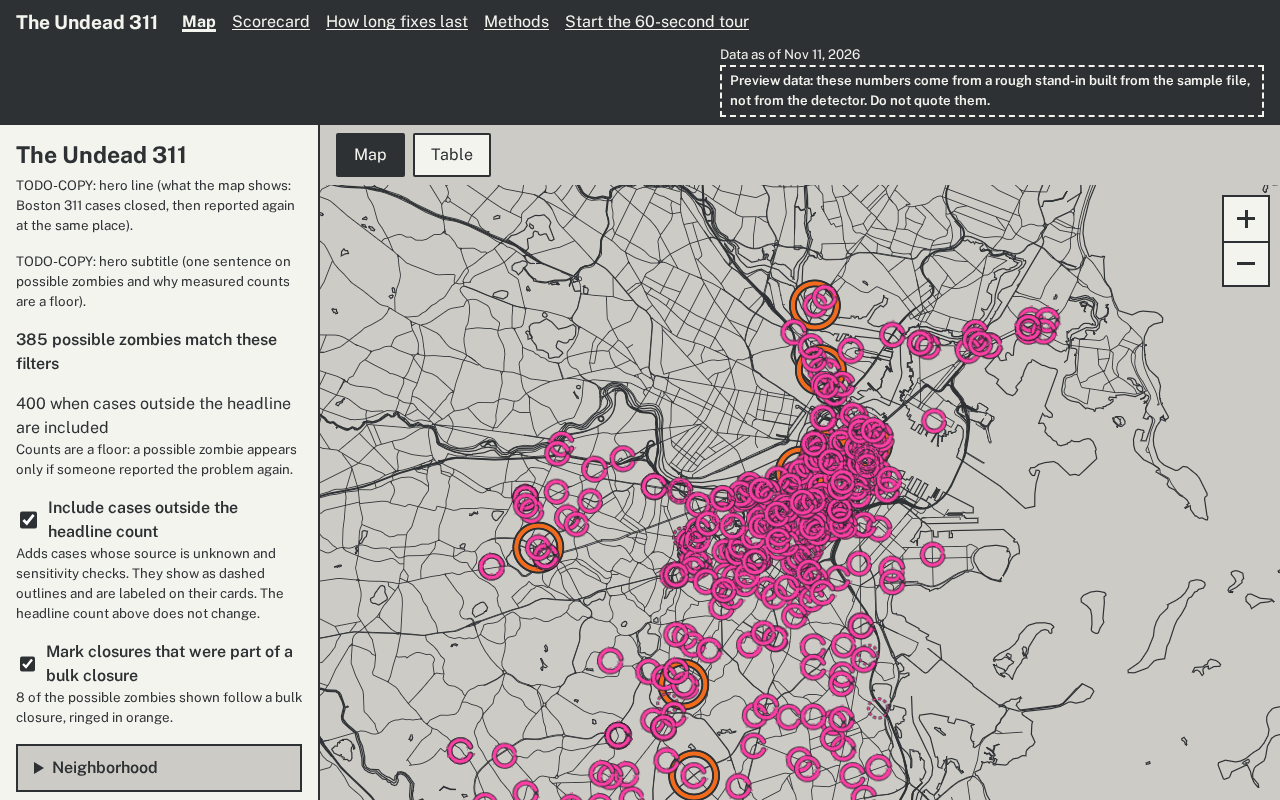
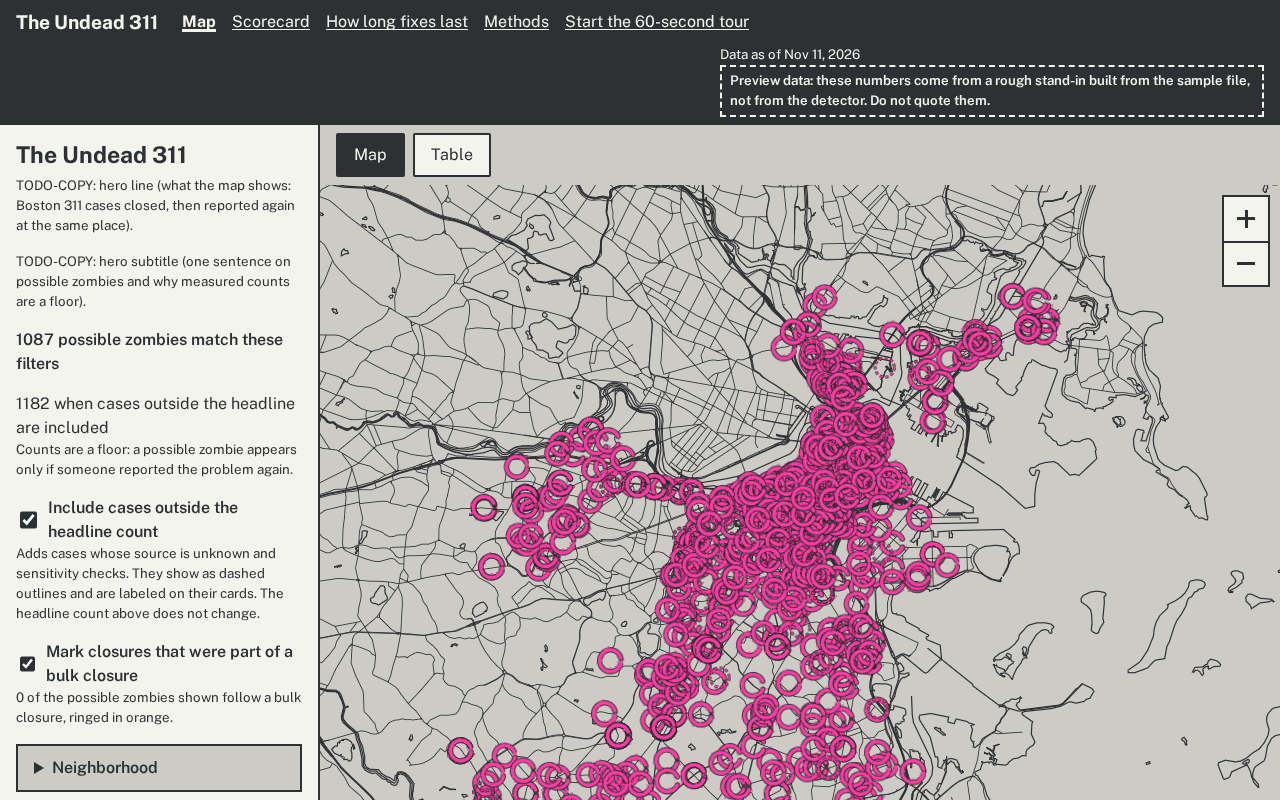
docs(log): web credibility fixes log, learning, refreshed screenshots
Kiro-Agent: web
Kiro-Run: build-1

diff --git a/docs/KIRO_LOG.md b/docs/KIRO_LOG.md
@@ -31,3 +31,4 @@ Format: `YYYY-MM-DD | surface | feature | what was built/fixed | issue + fix`
 2026-11-13 | Kiro Web | agent (web implementer) + PBT (fast-check formatGap) | Fixed reviewer-ux findings UX-1..UX-9 (ops#14-22) for haunted-web demo-critical: fixture pairs 1+ day apart with spread tour, palette-styled MapLibre controls, fixture notice, filter toggle on phones, department names, hours for sub-day gaps | The fixture builder's own comment said 1 to 60 days but the code only checked open > close, so 400/400 pairs were seconds apart; fixed and pinned by fixtures tests
 2026-11-13 | Kiro Web | agent (web implementer) + PBT | Fixed reviewer-ux findings UX-10..UX-13 (ops#23-26): tour by most re-reports then ID with override-file hook, one department key per system, Allston/Brighton grouped, phone map before hero text, preview notice inside the card | make-fixtures left stale card shards when a rule changed; the script now clears cards/ first
 2026-11-14 | Kiro Web | agent (web implementer) + PBT (fast-check W6 tier modes, W9 unusual only outside 99.8% limits) + workflow build-1 credibility | Built haunted-web tasks 12-16: CSP _headers from the build plus strict 3 MB gate, sensitivity tier toggle with outline markers, survival/funnel charts and leaderboards, methods page with status and corrections log, what-the-headline-leaves-out panels and bulk-closure map layer; fixed ops#60/#37/#38 | Kiro first left params/seed out of fixture stats files (schema had moved) and the regenerated ajv validators broke the W1 arbitrary on a date pattern; fixed make-fixtures and taught schemaArb the pattern
+2026-11-14 | Kiro Web | agent (web implementer) + PBT (niceTicks, unusualDirection) + workflow build-1 credibility loop 2 | Fixed reviewer-ux findings UX-16..UX-25 (ops#65-74): fixtures drop transferred originals, bulk flags and table agree, one neighborhood name per area, map and methods use one zombie set, funnel marks say above or below the limits (dark square, not pink), phone chart text 12 px or more (e2e check), survival legend and round ticks, styled select, Report-an-error placeholder build check | The fixture builder ignored ZD step 9 and flagged bulk by hash; both now follow the definition and fixtures tests pin it. ops#70 (is the repository public) stays needs-human

diff --git a/docs/LEARNINGS.md b/docs/LEARNINGS.md
@@ -17,3 +17,4 @@ One line each: `YYYY-MM-DD | who | learning`. Data quirks, library traps, failed
 2026-11-13 | web | The map CSS from maplibre-gl loads in a lazy chunk, so overrides need higher specificity (.map-host prefix) than its stock selectors; the fixture-builder confidence stand-in must not rank by gap or the top-N cut keeps only fast pairs.
 2026-11-13 | web | make-fixtures.mjs must clear public/data/cards before writing, or renamed shards linger and look valid; display:contents on a phone panel lets CSS order interleave its children with a sibling.
 2026-11-14 | web | pipeline-sample overwrites web/public/data with real engine files and /tmp does not persist between Kiro Web commands, so copy exports into .local-data first; the guard blocks the forced git clean, so delete untracked files by name; the credibility stats files (survival, funnel, groups, excess) are not in the engine export yet, so make-fixtures builds clearly labelled stand-ins
+2026-11-14 | kiro | A fixture builder that fakes a flag (bulk_closure by hash) contradicts the table built by the real rule on the same page; derive every flag from the same function, and test it both ways.
